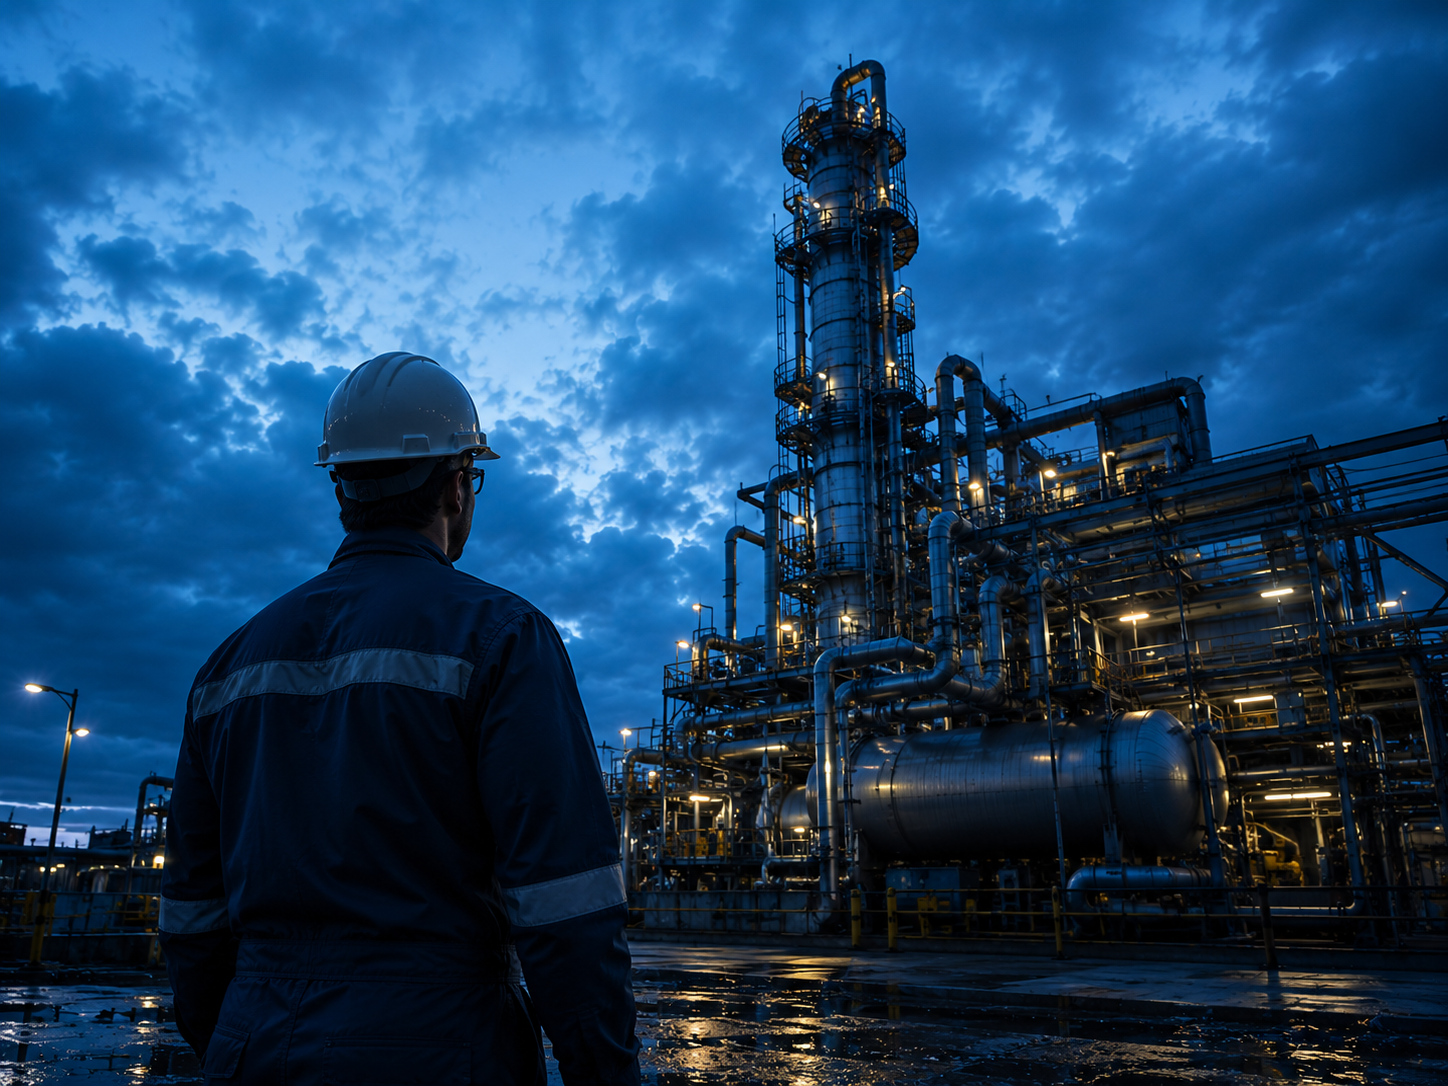
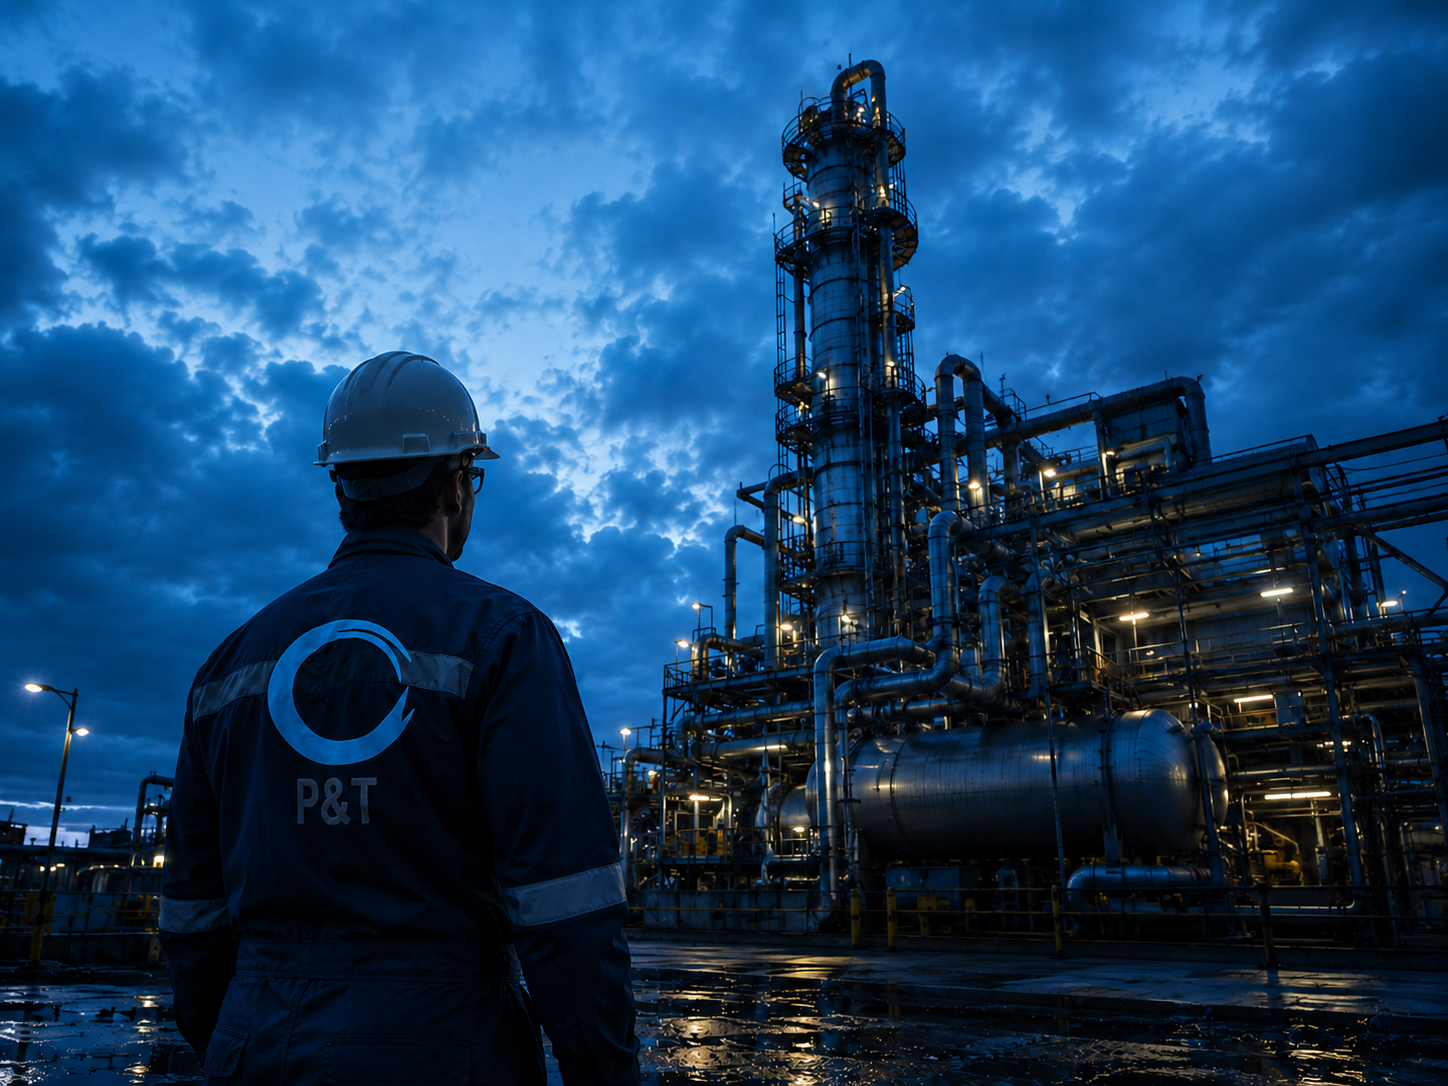
observaciones 5

diff --git a/src/data/general.ts b/src/data/general.ts
@@ -5,7 +5,7 @@ import visionImage from "../assets/vision.png";
 export const menuItems = [
       { label: "Inicio", to: "/#inicio", section: "inicio" },
       { label: "Nosotros", to: "/#nosotros", section: "nosotros" },
-      { label: "Servicios", to: "/servicios", section: "servicios" },
+      { label: "Servicios", to: "/servicios#top", section: "servicios" },
       { label: "Contacto", to: "/#contacto", section: "contacto" },
     ];
 
@@ -72,11 +72,11 @@ export const AboutInfo = [
 
 export const CertificateOptions = [
     {
-      label: "Prueba hidrostática anual,",
+      label: "Prueba hidrostática anual",
       value: "hidrostatica",
     },
      {
-      label: "Prueba hidrostática 5 años,",
+      label: "Prueba hidrostática 5 años",
       value: "hidrostatica",
     },
     {

diff --git a/index.html b/index.html
@@ -6,7 +6,7 @@
     <meta name="viewport" content="width=device-width, initial-scale=1.0" />
     <title>Proofs and Trials</title>
 
-<meta name="description" content="Proofs and Trials P&T S.A.S. es una compañía colombiana con más de 7 años de experiencia, especializada en ensayos no destructivos, que aplica diversos métodos de inspección bajo altos estándares de calidad, avalados por los entes de control.">
+<meta name="description" content="Proofs and Trials P&T S.A.S. es una compañía colombiana con más de 7 años de experiencia, especializada en ensayos no destructivos, que aplica diversos métodos de inspección mediante altos estándares de calidad, avalados por los entes de control.">
 <meta name="keywords" content="
 ensayos no destructivos,
 END,
@@ -35,7 +35,7 @@ mantenimiento industrial
 <meta name="robots" content="index, follow">
 
 <meta property="og:title" content="Proofs and Trials">
-<meta property="og:description" c content="Proofs and Trials P&T S.A.S. es una compañía colombiana con más de 7 años de experiencia, especializada en ensayos no destructivos, que aplica diversos métodos de inspección bajo altos estándares de calidad, avalados por los entes de control.">
+<meta property="og:description" c content="Proofs and Trials P&T S.A.S. es una compañía colombiana con más de 7 años de experiencia, especializada en ensayos no destructivos, que aplica diversos métodos de inspección mediante altos estándares de calidad, avalados por los entes de control.">
 <meta property="og:type" content="website">
 <meta name="geo.region" content="CO">
 <meta name="geo.placename" content="Colombia">

diff --git a/src/components/WhatsAppButton.tsx b/src/components/WhatsAppButton.tsx
@@ -1,7 +1,7 @@
 import { MessageCircle } from "lucide-react";
 
 export default function WhatsAppButton({
-  phone = "[phone redacted]",
+  phone = "[phone redacted]",
   text = "¡Hola! Me gustaría solicitar información.",
 }) {
   const url = `https://wa.me/${phone}?text=${encodeURIComponent(text)}`;
@@ -48,7 +48,7 @@ export default function WhatsAppButton({
         "
       >
         <span className="text-xs font-semibold  tracking-wide">
-          Programe su inspección
+          Programa tu inspección
         </span>
 
         <span className="text-xs font-semibold  tracking-wide">

diff --git a/src/pages/Services2Page.tsx b/src/pages/Services2Page.tsx
@@ -12,7 +12,7 @@ export default function ServicesPage() {
     const montacarga = services[2]
     return (
       <main>
-        <section className="relative destello overflow-hidden bg-gradient-to-r from-slate-950 via-slate-900 to-slate-800 text-center">
+        <section id="top" className="relative destello overflow-hidden bg-gradient-to-r from-slate-950 via-slate-900 to-slate-800 text-center">
             <div className="absolute  inset-0 bg-cover bg-center opacity-35" style={{ backgroundImage: `url(${heroImage})`,}}/>
             <div className="absolute inset-0 bg-gradient-to-r from-slate-950 via-slate-950/85 to-slate-950/40" />
             <div className="absolute right-0 top-0 h-80 w-80 rounded-full border border-sky-400/30 translate-x-1/2 -translate-y-1/2" />
@@ -33,7 +33,7 @@ export default function ServicesPage() {
         </section>
     
 
-        <section className="w-full  pt-16 pb-8 md:py-16 md:px-10"  id="top">
+        <section className="w-full  pt-16 pb-8 md:py-16 md:px-10"  >
          
             <Container className="relative ">
                 <ServiceTransport title={servicios_transp.title} subtitle={servicios_transp.subtitle} items={servicios_transp.items}/>

diff --git a/src/components/Socials.tsx b/src/components/Socials.tsx
@@ -7,7 +7,7 @@ import {
 export function Socials(){
     return (
         <div className="flex gap-4 mt-6">
-            <a href="https://www.facebook.com/" target="_blanc">
+            <a href="https://www.linkedin.com/" target="_blanc">
                 <FaLinkedin className="text-2xl hover:text-sky-500 transition" />
             </a>
 

diff --git a/src/sections/About.tsx b/src/sections/About.tsx
@@ -17,7 +17,7 @@ export default function About() {
               <LineSeparator />
             </Zoom>
             <p className="mt-6 leading-7 text-slate-600">
-              <b>Proofs and Trials P&T S.A.S.</b> es una compañía colombiana <b>con más de 7 años de experiencia</b>, especializada en <b>ensayos no destructivos</b>, que aplica diversos métodos de inspección bajo <b>altos estándares de calidad</b>, avalados por los entes de control.
+              <b>Proofs and Trials P&T S.A.S.</b> es una compañía colombiana <b>con más de 7 años de experiencia</b>, especializada en <b>ensayos no destructivos</b>, que aplica diversos métodos de inspección mediante <b>altos estándares de calidad</b>, avalados por los entes de control.
             </p>
           </Fade>
         </div>